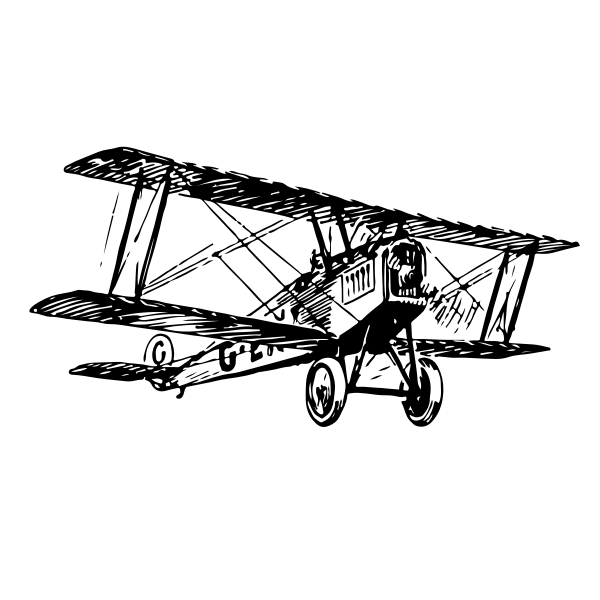
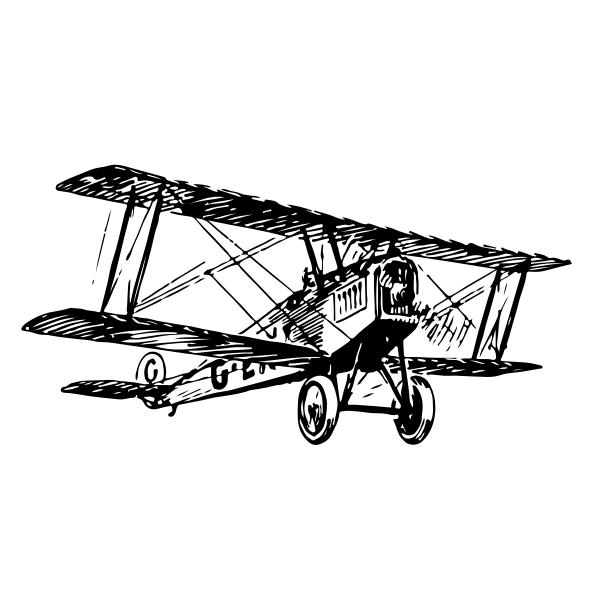
Agregada section de quienes somos

Changed region(s): [[0.03, 0.24, 0.96, 0.75]]

diff --git a/index.html b/index.html
@@ -41,9 +41,6 @@
                 <div id="portadaPrincipal">
                     <h1>Bienvenido a Rent A Plane</h1>
                     <img src="./img/portada.png" alt="portada" id="imgPortada">
-                    <!-- <div id="btnAviones">
-                        <a href="./section/aeronaves.html">Ver aeronaves destacados</a>
-                    </div> -->
                 </div>
                 <div class="bienvenida">
                     <h2>¿Cómo funciona Rent A Plane?</h2>
@@ -65,11 +62,15 @@
                 <div class="presentacion">
                     <h2>¿Quiénes somos?</h2>
                     <section class="whoAreWe">
-                        <img src="./img/biplano.png" alt="">
+                        <div><img src="./img/biplano.png" alt=""></div>
                         <article class="historia">
-                            <h3>Una compañía internacional</h3>
+                            <h3>Rent A Plane: Una empresa internacional</h3>
                             <p>Rent A Plane es una plataforma con proyección internacional, cuyos orígenes se remontan a la última década del siglo XX, creando una innovadora forma de rentar aeronaves de una forma fácil, rápida y segura.</p>
                             <p>Fundada en la ciudad de Londres, Reino Unido, se ha posicionado como una de las principales alternativas a nivel global en el mundo aeronáutico.</p>
+                            <p>Su principal cometido, es acercar el alquiler de aeronaves como un método de transporte asequible en cualquier región del mundo.</p>
+                            <p>Hoy en día, disponemos de oficinas comerciales en países como: Reino Unido, Estados Unidos, Brasil, Uruguay, España y Australia.</p>
+                            <p>Trabajamos con los principales aeropuertos de América, Europa, Asia y Oceanía. Al rentar una aeronave, podrá indicar el aeropuerto más cercano que más le convenga.</p>
+                            <p>No dude en ponerse en contacto con nosotros, si tiene cualquier consulta sobre nuestros servicios. Haga click <a href="./section/contacto.html">AQUÍ</a> para contactarnos.</p>
                         </article>
                     </section>
                     

diff --git a/style/styles.css b/style/styles.css
@@ -110,24 +110,6 @@ header nav{
     height: auto;
 }
 
-#btnAviones{
-    display: block;
-    padding: 5px 0 15px 0;
-    width: 100%;
-    color: black;
-    font-size: 22px;
-    background-color: rgb(121, 235, 255);
-    border-bottom: 3px solid rgb(21, 79, 89);
-    text-align: center;
-
-}
-
-#btnAviones a{
-    width: 100%;
-    color: black;
-    text-decoration: none;
-}
-
 #portadaPrincipal{
     background-color: rgb(21, 79, 89);
 }
@@ -166,16 +148,30 @@ header nav{
     padding-top: 3rem;
 }
 
+.presentacion h2{
+    border-bottom: 1px solid rgb(181, 188, 197);
+    margin: 0 3rem 0 3rem;
+    padding-bottom: 1rem;
+}
+
 .whoAreWe{
     display: grid;
     grid-template-columns: 35% 65%;
     grid-template-areas: "imagen texto";
+    height: 100%;
+}
+
+.whoAreWe div{
+    margin-left: 2rem;
+    grid-area: imagen;
+    display: flex;
+    align-items: center;
+    justify-content: center;
 }
 
 .whoAreWe img{
-    height: 70vh;
-    width: 70vh;
-    grid-area: imagen;
+    height: 30vw;
+    width: 30vw;
 }
 
 .historia{
@@ -190,8 +186,13 @@ header nav{
 
 .historia p{
     color:rgb(124, 124, 124);
+    text-align: justify;
 }
 
+.historia a{
+    text-decoration: none;
+    font-size: 1em;
+}
 
 
 footer{
